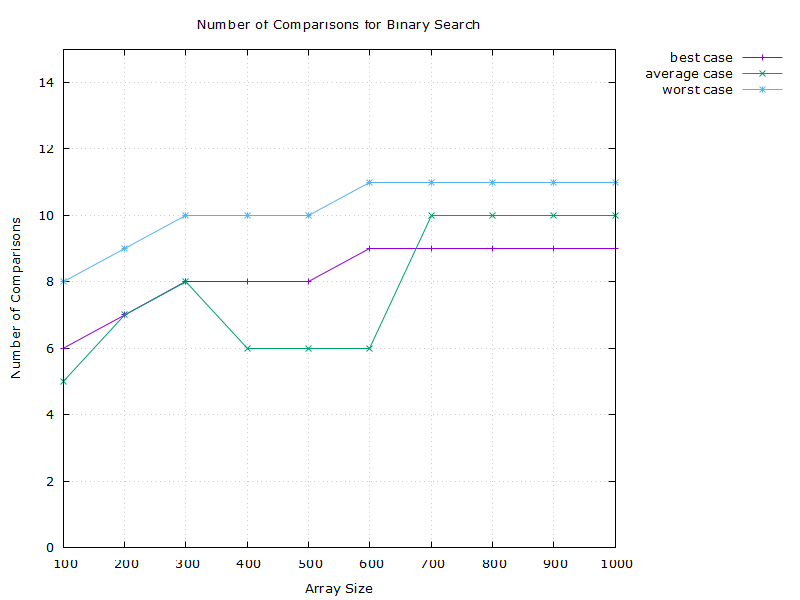
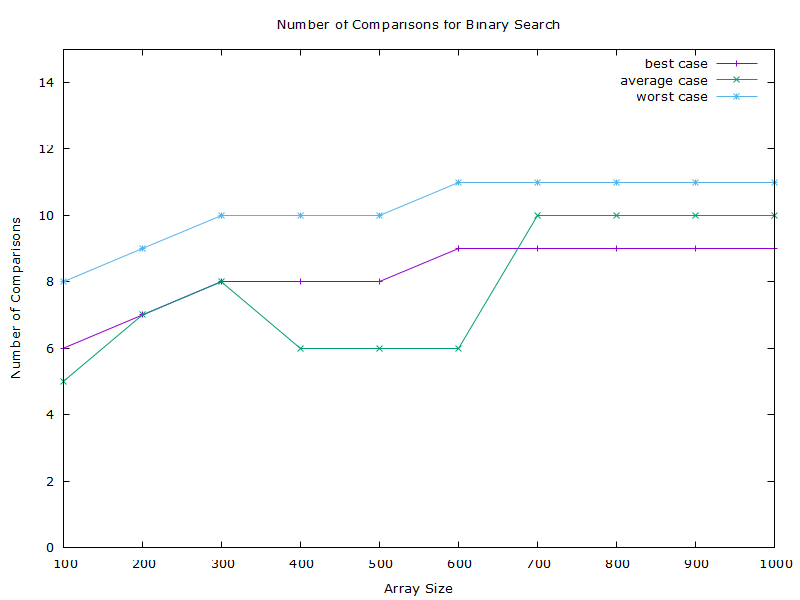
Complted both the problems, also added linear search algo.

diff --git a/2.Searching/LinearSearch.java b/2.Searching/LinearSearch.java
@@ -1,3 +1,54 @@
-public class LinearSearch{
-    
+import java.io.FileWriter;
+import java.io.IOException;
+import java.nio.file.Files;
+import java.nio.file.Paths;
+import java.util.Arrays;
+
+class LinearSearchResult {
+    public final int index;
+    public final int comparisons;
+
+    public LinearSearchResult(int index, int comparisons) {
+        this.index = index;
+        this.comparisons = comparisons;
+    }
+}
+
+public class LinearSearch {
+    public static LinearSearchResult binarySearch(int[] array, int key) {
+        int count = 0;
+
+        for (int i = 0; i < array.length; i++) {
+            count++;
+            if (array[i] == key)
+                return new LinearSearchResult(i, count);
+        }
+
+        count++;
+        return new LinearSearchResult(-1, count);
+    }
+
+    public static void main(String args[]) throws IOException {
+        int minVal = 1;
+        int maxVal = 100000;
+
+        Files.createDirectories(Paths.get("./2.Searching/data/linearSearch"));
+
+        try (FileWriter dataFile = new FileWriter("./2.Searching/data/linearSearch/linear_search_time.dat")) {
+            dataFile.write("#Size Best Average Worst\n");
+
+            for (int size = 100; size <= 1000; size += 100) {
+                int[] array = GenearteRandomArray.genearteRandomArray(size, minVal, maxVal);
+                Arrays.sort(array);
+
+                LinearSearchResult bestTime = binarySearch(array, array[0]);
+                LinearSearchResult averageTime = binarySearch(array, array[array.length / 2]);
+                LinearSearchResult worstTime = binarySearch(array, array[array.length - 1]);
+
+                dataFile.write(size + " " + bestTime.comparisons + " " + averageTime.comparisons + " "
+                        + worstTime.comparisons + "\n");
+            }
+        }
+
+    }
 }

diff --git a/1.GCD/gcd.cpp b/1.GCD/gcd.cpp
@@ -1,4 +1,6 @@
-#include <bits/stdc++.h>
+#include<iostream>
+#include<fstream>
+#include<vector>
 using namespace std;
 
 #define MIN 10
@@ -24,6 +26,7 @@ int main()
 
     for (int i = MIN; i <= MAX; i += 10)
     {
+        int m, n;
         int min_euclid = 10000, max_euclid = 0;
         int min_consecutive = 10000, max_consecutive = 0;
         int min_modified = 10000, max_modified =0;
@@ -31,7 +34,7 @@ int main()
         {
             for (int k = 2; k <= i; k++)
             {
-                int m = j, n = k;
+                m = j, n = k;
                 auto resultEuclid = gcdEuclid(m, n);
                 auto resultConsecutive = gcdConsecutiveIntegerChecking(m, n);
                 auto resultModifiedEuclid = gcdModifiedEuclid(m, n);
@@ -49,7 +52,7 @@ int main()
                 max_modified = max(max_modified, resultModifiedEuclid.second);
             }
         }
-        dataFile << i << " "
+        dataFile << m << " "
                  << min_euclid << " " << max_euclid << " "
                  << min_consecutive << " " << max_consecutive << " "
                  << min_modified << " " << max_modified << "\n";
